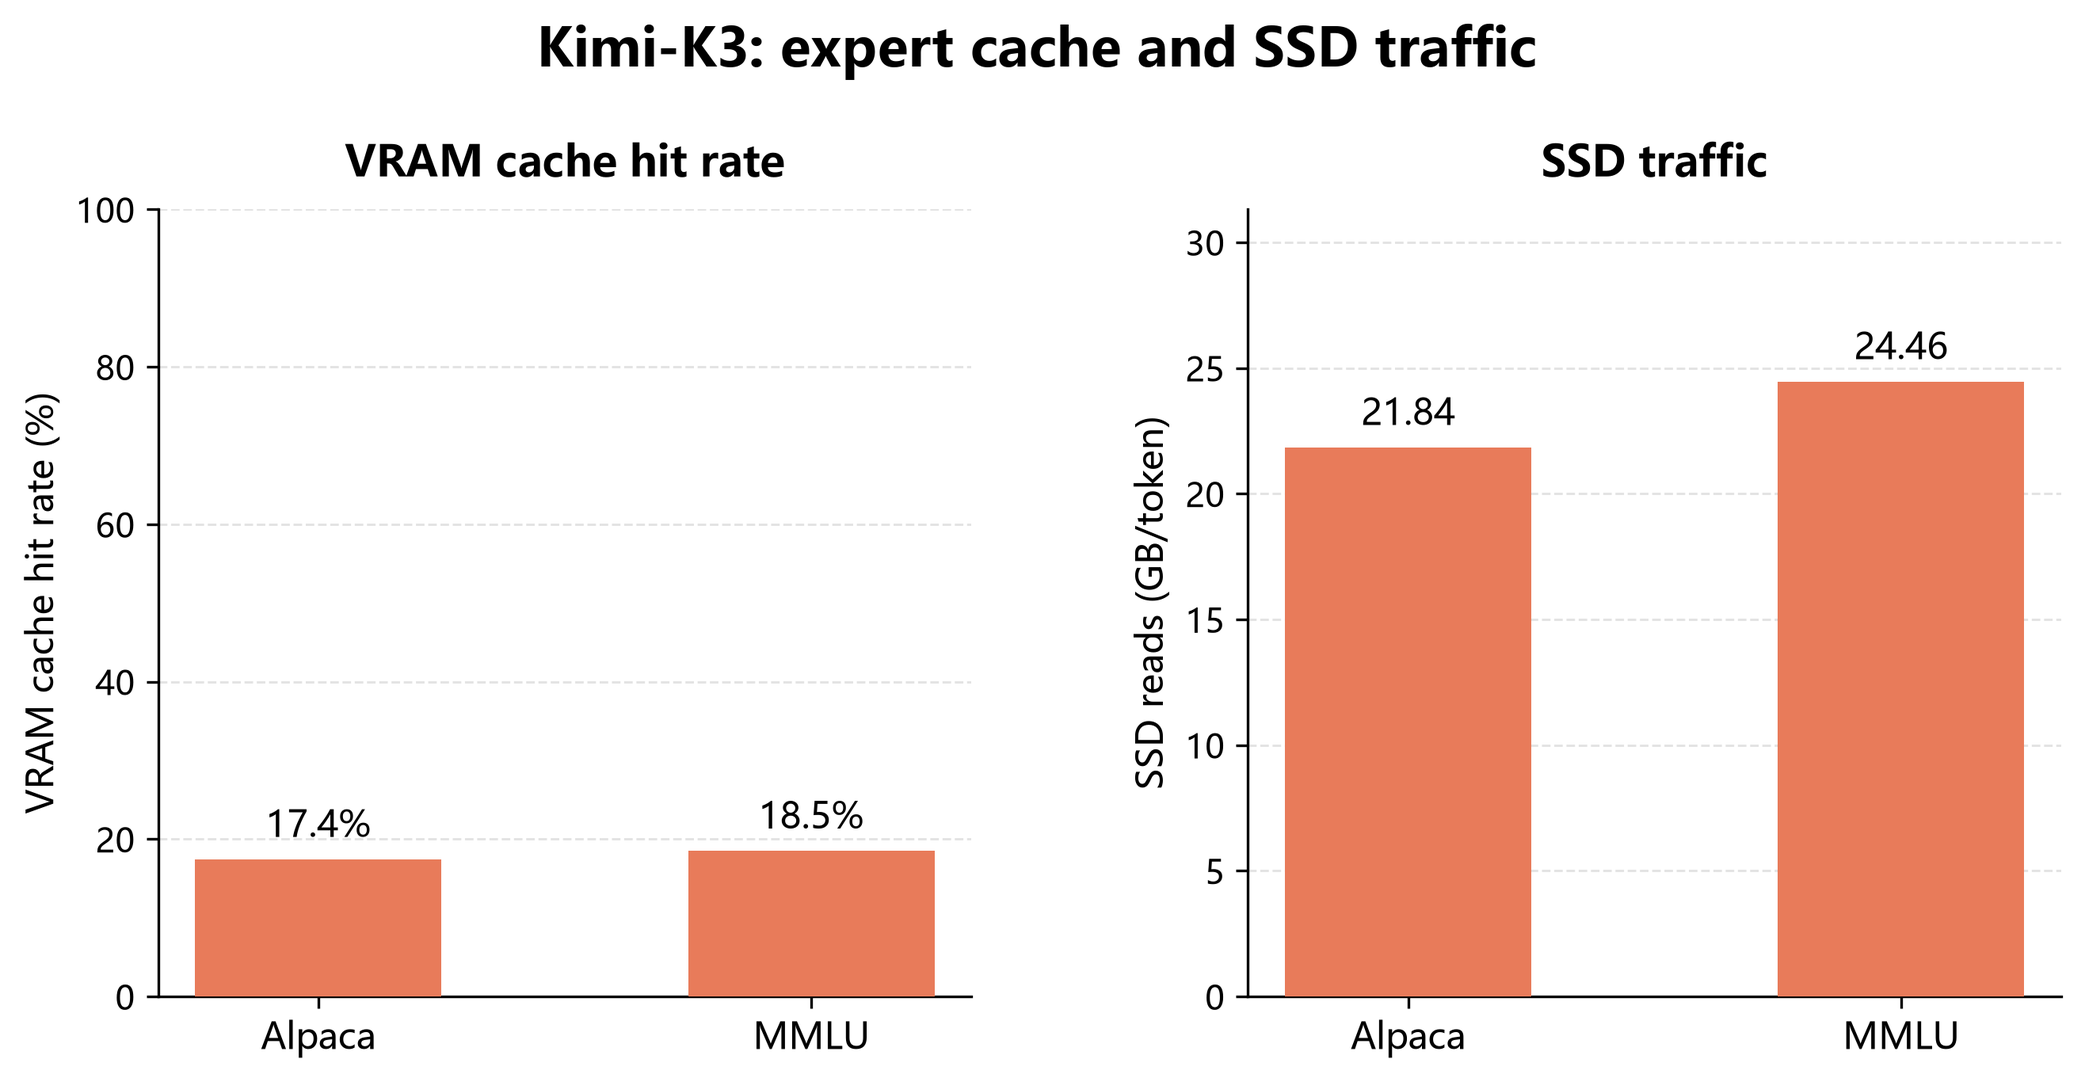
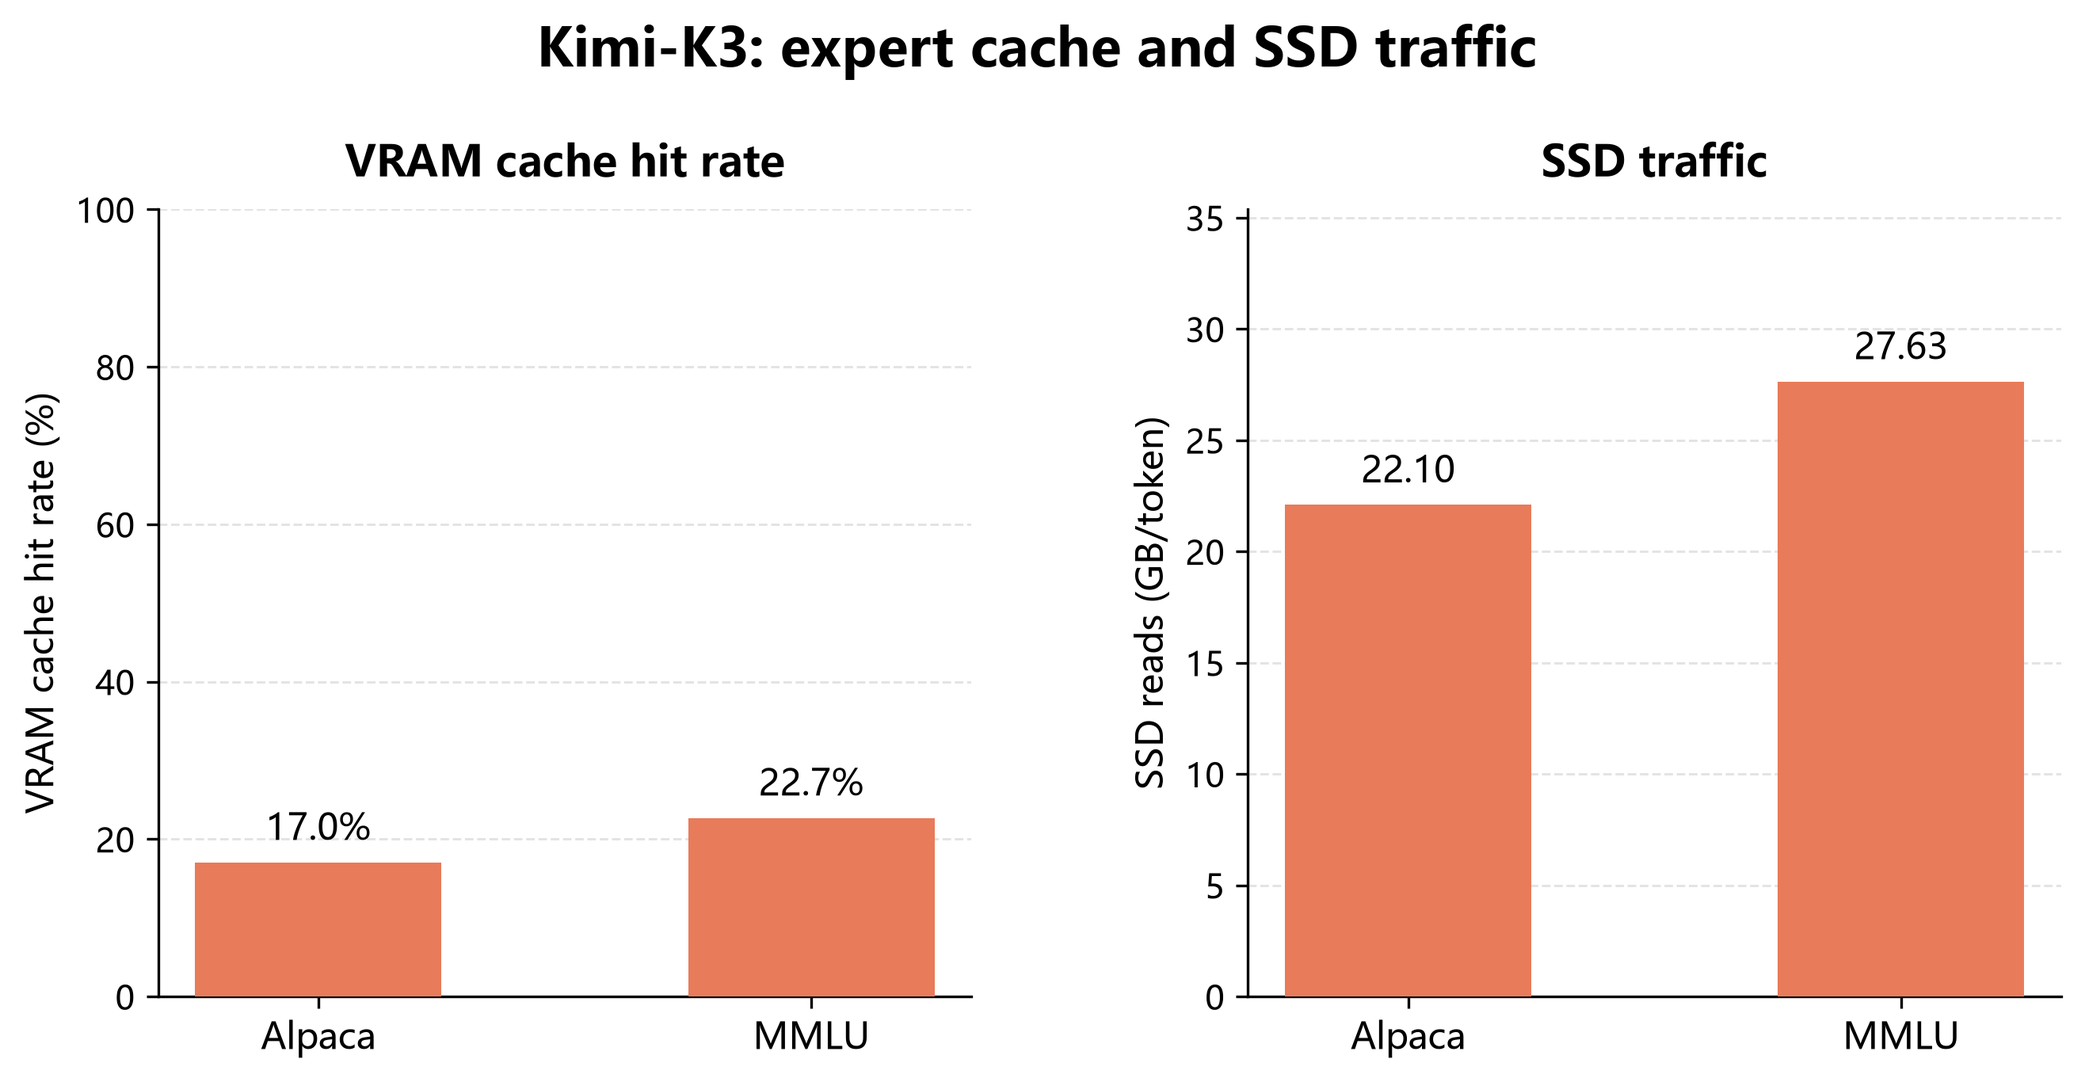
Update PR 417 benchmark responses and charts

diff --git a/blog/2026-08-29-sglang-ssd-expert-pack.md b/blog/2026-08-29-sglang-ssd-expert-pack.md
@@ -16,7 +16,7 @@ The total parameter capacity of DeepSeek-V4-Flash and Kimi-K3 is far beyond the 
 
 SGLang's SSD-backed Expert Pack path takes a different approach. Routed expert weights remain on an NVMe SSD. The router activates only a small subset of experts for each token, so the runtime moves only the selected experts that are not already cached to the GPU. Expert Pack reorganizes the weights of each layer/expert pair into a directly addressable contiguous expert block. The runtime reads that expert block into an aligned pinned host buffer using direct I/O, then transfers it to a GPU cache asynchronously.
 
-This path changes how model weights are stored and delivered, not the model computation. It does not prune, replace, merge, or skip selected experts, and it does not reduce Expert Top-K. The result is a practical way to run DeepSeek-V4-Flash and the validated text-only Kimi-K3 path with one RTX 5090 (32 GB VRAM), 32 GB of CPU memory, and a 2 TB NVMe SSD.
+This path changes how model weights are stored and delivered, not the model computation. It does not prune, replace, merge, or skip selected experts, and it does not reduce Expert Top-K. The result is a practical way to run DeepSeek-V4-Flash and the validated text-only Kimi-K3 path with one RTX 5090 (32 GB VRAM), 32 GB of CPU memory, and a 2 TB storage volume.
 
 ### MoE computation is sparse, but model capacity is not
 
@@ -34,7 +34,7 @@ This is why SSD is a useful backing tier. It provides much more capacity than co
 A capacity-cost comparison makes the trade-off clear. The following figures are capacity-only lower bounds, not complete system prices:
 
 <p align="center">
-  <img src="../public/images/blog/sglang-ssd-expert-pack/price.png" alt="Capacity cost comparison for DeepSeek-V4-Flash and Kimi-K3 on a logarithmic scale" width="460">
+  <img src="/images/blog/sglang-ssd-expert-pack/price.png" alt="Capacity cost comparison for DeepSeek-V4-Flash and Kimi-K3 on a logarithmic scale" width="460">
 </p>
 
 The figure does not mean SSD and DRAM have the same latency, or that buying an SSD alone is sufficient to run the model. It shows that placing the complete expert pool in VRAM or DRAM quickly becomes impractical, while using SSD for capacity and a bounded GPU cache for the active working set can substantially lower the hardware barrier.
@@ -84,7 +84,7 @@ SGLang Expert Pack v1 treats one `(layer, expert)` pair as one complete expert. 
 
 The logical layout is:
 
-![Expert Pack physical data block layout with contiguous expert byte-streams and explicit block-aligned padding](../public/images/blog/sglang-ssd-expert-pack/expert-pack-layout.png)
+![Expert Pack physical data block layout with contiguous expert byte-streams and explicit block-aligned padding](/images/blog/sglang-ssd-expert-pack/expert-pack-layout.png)
 
 The runtime does not scan the file for tensor names. It derives the expert offset from the pack metadata:
 
@@ -116,7 +116,7 @@ This is one of the most important differences between Expert Pack and a conventi
 Traditional file reads normally go through the operating system page cache:
 
 <p align="center">
-  <img src="../public/images/blog/sglang-ssd-expert-pack/traditional_copy.png" alt="Traditional file-read path: a synchronous page-cache-to-pinned-memory copy followed by asynchronous H2D" width="300">
+  <img src="/images/blog/sglang-ssd-expert-pack/traditional_copy.png" alt="Traditional file-read path: a synchronous page-cache-to-pinned-memory copy followed by asynchronous H2D" width="300">
 </p>
 
 The page cache is a kernel-managed file cache. It is not the same thing as the page-locked user memory that CUDA can use for asynchronous H2D. To issue an asynchronous H2D transfer, the application normally prepares a pinned buffer. The file data therefore has to be copied from the page cache into that pinned buffer before the GPU transfer can start. From the application's perspective, this page-cache-to-pinned handoff is a synchronous CPU memory copy: the host-side staging step must complete before the H2D operation has a valid pinned source buffer. It is not itself a `cudaMemcpyAsync` operation.
@@ -128,7 +128,7 @@ This is neither SSD reads nor H2D transfers. Rather, it is an extra synchronous 
 When `direct_io=True`, SGLang opens the Expert Pack with `O_DIRECT` and makes the read target a preallocated, aligned pinned staging buffer:
 
 <p align="center">
-  <img src="../public/images/blog/sglang-ssd-expert-pack/expert_pack_copy.png" alt="Expert Pack direct-I/O path: an aligned pinned host buffer feeds the GPU expert cache before MoE computation" width="300">
+  <img src="/images/blog/sglang-ssd-expert-pack/expert_pack_copy.png" alt="Expert Pack direct-I/O path: an aligned pinned host buffer feeds the GPU expert cache before MoE computation" width="300">
 </p>
 
 The read target is already the pinned buffer required by CUDA, so the intermediate step below is removed:
@@ -188,15 +188,17 @@ The runtime exposes counters that make cache behavior measurable:
 - `h2d_bytes`;
 - `fallback_count` and `io_errors`.
 
-These counters distinguish a cache problem from an I/O problem. A low hit rate means the VRAM budget or workload locality is insufficient; high `pack_read_bytes` and `h2d_bytes` with a good hit rate may instead indicate that the active set is larger than the cache during a particular phase. `fallback_count` and `io_errors` are correctness signals, not cache-performance signals.
+These counters distinguish a cache problem from an I/O problem. A low hit rate means the VRAM budget or workload locality is insufficient; high `pack_read_bytes` and `h2d_bytes` with a good hit rate may instead indicate that the active set is larger than the cache during a particular phase. `io_errors` reports observed I/O failures, while `fallback_count` is diagnostic telemetry whose meaning depends on an instrumented fallback path; neither is a cache-performance metric.
 
-The cost of a cache miss can be viewed as:
+The current execution order places an expert-cache miss on the critical path for the MoE computation it feeds. `acquire()` copies routing IDs to CPU, waits for the SSD read futures, enqueues the expert-level H2D transfers, and makes the current CUDA stream wait for their transfer events. Only after those events are ready does `apply()` launch the MoE kernels. Reads and transfers for different missing experts may overlap during the delivery phase, but the current path does not overlap that delivery with the MoE computation that consumes the experts.
+
+A simplified per-step model for the current path is therefore:
 
 ```text
-T_step ~= max(T(SSD read) + T(H2D), T(GPU compute))
+T_step ~= T(miss delivery) + T(GPU compute)
 ```
 
-On a GPU cache hit, both SSD read and H2D can be skipped. On a miss, the cost includes the expert read, the expert-level H2D, and the expert computation. The actual result depends on SSD bandwidth, access distribution, cache hit rate, staging-slot count, and expert shapes.
+Here, `T(miss delivery)` includes route-ID preparation, SSD reads, staging, H2D submission, and the waits needed to make the selected experts available. On a GPU cache hit, the SSD-read and H2D portions can be skipped. A cross-step pipeline could change this model, but that is not part of the execution path described here. The actual result depends on SSD bandwidth, access distribution, cache hit rate, staging-slot count, and expert shapes.
 
 ## 6. DeepSeek-V4-Flash and Kimi-K3 integration
 
@@ -262,48 +264,144 @@ Expert Pack is a weight-layout and delivery optimization, not an approximate-inf
 - the pack and manifest are structurally, dimensionally, and cryptographically validated as configured;
 - `fallback_count` and `io_errors` are reported instead of silently hiding I/O failures.
 
-Validation showed that DeepSeek-V4-Flash produced semantically equivalent answers to Ollama across multiple prompt categories. Kimi-K3 matched the 200-token SGLang reference output; all 92 routed layers executed Top-16 experts with `fallback_count=0` and `io_errors=0`.
+Validation showed that DeepSeek-V4-Flash produced semantically equivalent answers to Ollama across multiple prompt categories. Kimi-K3 matched the 200-token SGLang reference output; all 92 routed layers executed Top-16 experts with `io_errors=0`. `fallback_count` is retained as diagnostic telemetry, but the current path does not expose an instrumented increment for every hypothetical fallback, so zero is not used as an independent correctness proof. Correctness is instead established by the route/output audit and the structural pack checks.
 
 ## 8. Performance results
 
-All SGLang, Ollama, and llama.cpp measurements use the same test environment: one NVIDIA RTX 5090 with 32 GB VRAM, 32 GB of CPU memory, and a 2 TB NVMe SSD. The figures below describe validation results under this shared hardware condition; token counts and runtime-specific software settings remain as stated in each comparison. The earlier summary tables are retired; the figures below are now the canonical presentation of the token-rate comparison.
+All SGLang, Ollama, and llama.cpp measurements use the same test environment: one NVIDIA RTX 5090 with 32 GB VRAM, 32 GB of CPU memory, and a 2 TB storage volume. The figures below describe validation results under this shared hardware condition; token counts and runtime-specific software settings remain as stated in each comparison. The earlier summary tables are retired; the figures below are now the canonical presentation of the token-rate comparison.
 
 ### DeepSeek-V4-Flash vs. Ollama
 
 The comparison uses ten shared requests: five Alpaca and five MMLU. Both runtimes generated up to 200 tokens per request. The chart reports mean prefill and decode token rates for each dataset.
 
 <p align="center">
-  <img src="../public/images/blog/sglang-ssd-expert-pack/deepseek_v4_flash_sglang_vs_ollama_compare.png" alt="DeepSeek-V4-Flash SGLang versus Ollama prefill and decode token rates for Alpaca and MMLU" width="100%">
+  <img src="/images/blog/sglang-ssd-expert-pack/deepseek_v4_flash_sglang_vs_ollama_compare.png" alt="DeepSeek-V4-Flash SGLang versus Ollama prefill and decode token rates for Alpaca and MMLU" width="100%">
 </p>
 
 Relative to Ollama, SGLang improves prefill by 2.28x on Alpaca and 3.39x on MMLU. Decode improves by 6.92x and 6.55x, respectively.
 
 ### Kimi-K3 vs. llama.cpp
 
-The comparison includes three Alpaca and two MMLU samples. SGLang generated 200 tokens, while llama.cpp generated 50 tokens, so the decode comparison is indicative rather than a strict equal-length A/B measurement. The chart reports mean prefill and decode token rates for each dataset.
+The comparison uses the same ten fixed requests in both runtimes: five Alpaca
+and five MMLU. Both clients use temperature 0 and default EOS handling; each
+request generated exactly 200 completion tokens, so the decode comparison is
+now matched for prompt set, stop behavior, and output length. The chart reports
+mean prefill and decode token rates for each dataset.
 
 <p align="center">
-  <img src="../public/images/blog/sglang-ssd-expert-pack/kimi_k3_sglang_vs_llama_compare.png?v=20260828" alt="Kimi-K3 SGLang versus llama.cpp prefill and decode token rates for Alpaca and MMLU" width="100%">
+  <img src="/images/blog/sglang-ssd-expert-pack/kimi_k3_sglang_vs_llama_compare.png?v=20260904" alt="Kimi-K3 SGLang versus llama.cpp prefill and decode token rates for a matched 200-token Alpaca and MMLU rerun" width="100%">
 </p>
 
-Relative to llama.cpp, SGLang improves prefill by 7.81x on Alpaca and 5.98x on MMLU. Decode improves by 3.14x and 3.04x, respectively.
+Relative to llama.cpp, SGLang improves prefill by 6.96x on Alpaca and 5.80x on
+MMLU. Decode improves by 3.30x and 3.52x, respectively. The ten-request
+aggregates use the ten retained request records described below.
+
+### Benchmark reproduction record
+
+The retained benchmark bundle uses one request at a time, 16 logical CPUs
+(`0-15`), a 32 GiB memory limit, and disabled swap. The shared input file is
+`examples/runtime/kimi_k3/benchmark_kimi_k3_inputs.jsonl`: ten fixed records,
+interleaved as five Alpaca and five MMLU requests. Each runtime used temperature
+0, default EOS handling, and a 200-token target for the matched Kimi chart.
+Prompt-token counts and actual completion-token counts are retained per request
+in the JSONL records. The Kimi records all reached 200 completion tokens; the
+retained DeepSeek Ollama records include earlier EOS stops and therefore report
+their actual counts separately from the 200-token ceiling.
+
+| Runtime | Source revision and identity |
+| --- | --- |
+| SGLang | `81c9f837f19ff8dfe1a9fcd1abfc6069dd28d2ec` (`support_deepseek-v4_and_kimi-k3_on_ssd`) |
+| llama.cpp | `5fff128451d7603857597ee1fc18ac1dfb90f148`; local `src/models/kimi-k3.cpp` was modified for Kimi-K3 |
+| Ollama (DeepSeek record) | Ollama `0.33.1`; managed llama.cpp runner commit `d222767c7` |
+
+The Kimi source is the 38-shard GGUF beginning at
+`/models/kimi-k3-blackfrost-q2k/KIMI-K3-MXP4-DERISKED-Q2_K-00001-of-00038.gguf`.
+The Expert Pack is
+`/models/kimi-k3-blackfrost-q2k/KIMI-K3-MXP4-DERISKED-Q2_K.expert-major.pack`.
+The retained Kimi manifest provides pack-index and source-inventory hashes, but
+full SHA-256 hashes for all GGUF shards and the complete pack were not recorded.
+
+| Available artifact digest | Value |
+| --- | --- |
+| DeepSeek Ollama manifest | `sha256:882b1398c0ca4e7ec8ca0a501fd8c4372f780f690536a3ec17ffc75306569ed3` |
+| DeepSeek GGUF blob | `sha256:947ac34c08c0e5c5752ac76398f934b3b6b4075cfe915ba43dd5ac754900a4cd` |
[2 lines of base64/hex data omitted]
+
+The SGLang batch client was invoked as:
+
+```bash
+python3 /root/workspace/benchmark_kimi_k3_alpaca_mmlu_interleaved.py \
+  --gguf /models/kimi-k3-blackfrost-q2k/KIMI-K3-MXP4-DERISKED-Q2_K-00001-of-00038.gguf \
+  --inputs /root/workspace/sglang-latest-deepseek-v4-kimi-k3-ssd/examples/runtime/kimi_k3/benchmark_kimi_k3_inputs.jsonl \
+  --output-dir /root/workspace/kimi-k3-sglang-rerun-20260903-200tok \
+  --max-new-tokens 200
+```
+
+The corresponding SGLang server used `--load-format expert_pack` with
+`tp_size=1`, `ep_size=1`, `max_running_requests=1`, `read_splits=1`,
+`direct_io=true`, a 5120 MiB GPU expert-cache budget, and a 1536 MiB cache
+reserve. The request set also used `chunked_prefill_size=64` and
+`mem_fraction_static=0.98`.
+
+The llama.cpp server was started with:
+
+```bash
+/root/workspace/llama.cpp/build/bin/llama-server \
+  -m /models/kimi-k3-blackfrost-q2k/KIMI-K3-MXP4-DERISKED-Q2_K-00001-of-00038.gguf \
+  -ngl -1 --cpu-moe --host 127.0.0.1 --port 8081 \
+  -t 16 -tb 16 --threads-http 16 -np 1 -c 4096 -b 16 -ub 16 \
+  --no-warmup --metrics \
+  --log-file /root/workspace/kimi-k3-llama-cpp-16cpu-32gb-20260828/server.log
+```
+
+The retained DeepSeek Ollama service was started with
+`OLLAMA_HOST=http://127.0.0.1:11435 /usr/local/bin/ollama serve`. Its managed
+runner command was:
+
+```bash
+/usr/local/lib/ollama/llama-server \
+  --model /usr/share/ollama/.ollama/models/blobs/sha256-947ac34c08c0e5c5752ac76398f934b3b6b4075cfe915ba43dd5ac754900a4cd \
+  --port 40115 --host 127.0.0.1 --no-webui --offline \
+  -c 32768 -np 1 --log-verbosity 4 --no-log-prefix --no-log-timestamps \
+  --flash-attn auto -b 512 -ub 512 --context-shift --keep 4
+```
+
+The service log identifies Ollama `0.33.1` and runner commit `d222767c7`.
+
+The llama.cpp benchmark client sent non-streaming `/completion` requests with
+`cache_prompt=false`, `temperature=0`, and `n_predict=200`, one request at a
+time.
+
+The exact per-request JSONL records and effective launch logs are retained in
+the benchmark evidence bundle.
+
+The benchmark host exposed an RTX 5090 with 32 GiB VRAM, 32 GiB CPU memory,
+and a 2 TB ext4 storage volume. The physical storage model was not exposed by
+the host, so no more specific SSD claim is made here.
 
 ### Expert-cache hit rate and SSD traffic
 
-Token rate should be read together with cache telemetry. The following Python-generated bar charts report two independent quantities: the share of routed-expert accesses served from the VRAM cache, and decimal gigabytes read from the Expert Pack per generated token. A cache hit avoids the SSD read and H2D transfer for that expert; GB/token also depends on expert payload size and routing locality.
+Token rate should be read together with cache telemetry. The following Python-generated bar charts report two independent quantities: the share of unique `(layer, expert)` keys counted by `acquire()` that were served from the VRAM cache, and decimal gigabytes read from the Expert Pack per generated token. Repeated token-to-expert routes within one acquire/update are de-duplicated, so this is not a per-token router-edge hit rate. A cache hit avoids the SSD read and H2D transfer for that expert. `pack_read_bytes` includes both prefill and decode traffic; GB/token is normalized by generated completion tokens and is not decode-only traffic.
 Both figures show SGLang-only telemetry, so the single series is labeled by the surrounding text rather than a legend.
 
 <p align="center">
-  <img src="../public/images/blog/sglang-ssd-expert-pack/deepseek_v4_flash_expert_cache_metrics.png" alt="DeepSeek-V4-Flash SGLang VRAM cache hit rate and SSD reads per generated token" width="100%">
+  <img src="/images/blog/sglang-ssd-expert-pack/deepseek_v4_flash_expert_cache_metrics.png" alt="DeepSeek-V4-Flash SGLang VRAM cache hit rate and SSD reads per generated token" width="100%">
 </p>
 
 DeepSeek uses the complete ten-request run: five Alpaca and five MMLU requests, each with a 200-token completion. Its hit rate is 54.2% for Alpaca and 46.4% for MMLU, with 1.66 and 2.04 GB read per generated token.
 
 <p align="center">
-  <img src="../public/images/blog/sglang-ssd-expert-pack/kimi_k3_expert_cache_metrics.png" alt="Kimi-K3 SGLang VRAM cache hit rate and SSD reads per generated token" width="100%">
+  <img src="/images/blog/sglang-ssd-expert-pack/kimi_k3_expert_cache_metrics.png" alt="Kimi-K3 SGLang VRAM cache hit rate and SSD reads per generated token" width="100%">
 </p>
 
+The Kimi figure uses all ten completed requests: five Alpaca and five MMLU, each with a 200-token completion. The unweighted per-request means are 17.0% and 22.7% VRAM cache hit rate, with 22.10 and 27.63 decimal GB read per generated token, respectively. The difference from DeepSeek is expected: Kimi's configuration reserves 5 GiB for the GPU expert cache, while the DeepSeek run reserves about 21 GiB, and the two adapters have different expert payload sizes and routing behavior.
+
+<!-- Retired interim three-request values are kept below only as review history. -->
+<!--
 The Kimi figure uses the first three completed requests of the interleaved run: two Alpaca and one MMLU, each with a 200-token completion. The current means are 17.4% and 18.5% VRAM cache hit rate, with 21.84 and 24.46 GB read per generated token, respectively. The remaining seven requests are still running, so these are explicitly stage results rather than final ten-request averages. The difference from DeepSeek is expected: Kimi’s configuration reserves 5 GiB for the GPU expert cache, while the DeepSeek run reserves about 21 GiB, and the two adapters have different expert payload sizes and routing behavior.
+
+-->
 
 The improvement does not come from one isolated faster-copy primitive. It is the combined effect of:
 
@@ -316,7 +414,7 @@ The improvement does not come from one isolated faster-copy primitive. It is the
 
 ### SSD capacity and preparation time
 
-Expert Pack requires additional SSD capacity. The PR records an estimated 5-10 minutes to build the DeepSeek-V4-Flash pack and approximately 8-15 minutes for first-run readiness. Kimi-K3 pack construction took 29 minutes 42 seconds in the retained measurement, with approximately 35-45 minutes to first readiness. The 38 Kimi source shards and generated Expert Pack occupy about 1.814 TiB in total; the measurements use a 2 TB SSD, while a 4 TB SSD is recommended for practical deployment headroom.
+Expert Pack requires additional SSD capacity. The PR records an estimated 5-10 minutes to build the DeepSeek-V4-Flash pack and approximately 8-15 minutes for first-run readiness. Kimi-K3 pack construction took 29 minutes 42 seconds in the retained measurement, with approximately 35-45 minutes to first readiness. The 38 Kimi source shards and generated Expert Pack occupy about 1.814 TiB in total; the measurements use a 2 TB storage volume, while a 4 TB SSD is recommended for practical deployment headroom.
 
 ### Direct I/O
 
